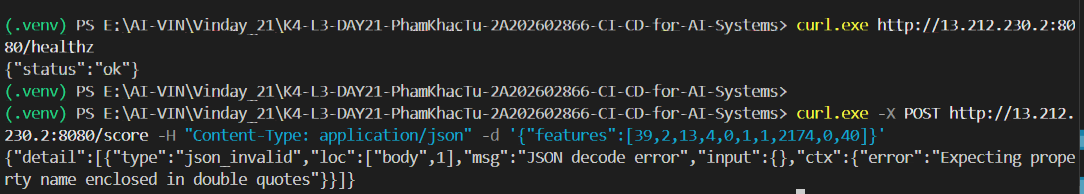
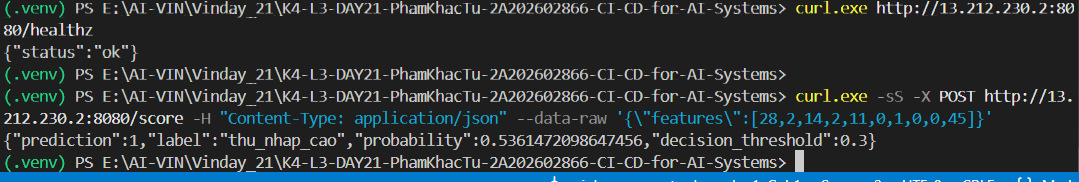
docs: finalize submission report and screenshots

diff --git a/nop-bai/README.md b/nop-bai/README.md
@@ -13,7 +13,8 @@ nop-bai/
     ├── 02-actions-buoc-2.png
     ├── 03-actions-buoc-3.png
     ├── 04-curl-api.png
-    └── 05-cloud-storage.png
+    ├── 05a-storage-dvc.png
+    └── 05b-storage-model.png
 ```
 
 ---
@@ -22,11 +23,11 @@ nop-bai/
 
 Đánh dấu `[x]` khi hoàn thành từng mục:
 
-- [ ] Repo GitHub ở chế độ **public** và chứa toàn bộ code, cấu hình đã hoàn thiện.
-- [ ] Đủ 5 ảnh trong `anh-chup-man-hinh/`, đúng tên file, đúng thứ tự (xem
+- [x] Repo GitHub ở chế độ **public** và chứa toàn bộ code, cấu hình đã hoàn thiện.
+- [x] Đủ bằng chứng ảnh 01–05 trong `anh-chup-man-hinh/`, đúng tên và thứ tự (xem
       [yêu cầu chi tiết](anh-chup-man-hinh/README.md)).
-- [ ] `bao-cao.md` đã điền đủ 3 mục bắt buộc và không vượt quá 1 trang A4.
-- [ ] Đã `git push` toàn bộ thư mục `nop-bai/` lên GitHub.
+- [x] `bao-cao.md` đã điền đủ các mục bắt buộc và có 539 từ.
+- [x] Đã `git push` toàn bộ thư mục `nop-bai/` lên GitHub.
 - [ ] Dán URL repo GitHub vào bài nộp trên **https://vlearn.dev**.
 - [ ] Mở lại URL vừa nộp ở chế độ ẩn danh để chắc chắn repo public và người chấm xem được.
 
@@ -40,7 +41,7 @@ nop-bai/
 | `02-actions-buoc-2.png` | Bước 2 - CI/CD (bốn jobs màu xanh) | 16 |
 | `03-actions-buoc-3.png` | Bước 3 - Tự động hóa | 12 |
 | `04-curl-api.png` | Bước 2 - Serving | 12 |
-| `05-cloud-storage.png` | Bước 2 - DVC | 12 |
+| `05a-storage-dvc.png`, `05b-storage-model.png` | Bước 2 - DVC và model artifact | 12 |
 
 Phần `bao-cao.md` chứng minh hạng mục **Bước 1 - Phân tích** (4 điểm) và là nơi bạn giải
 trình khi một ảnh nào đó chưa thể hiện đủ (ví dụ quality gate đã chặn đúng một lần).
